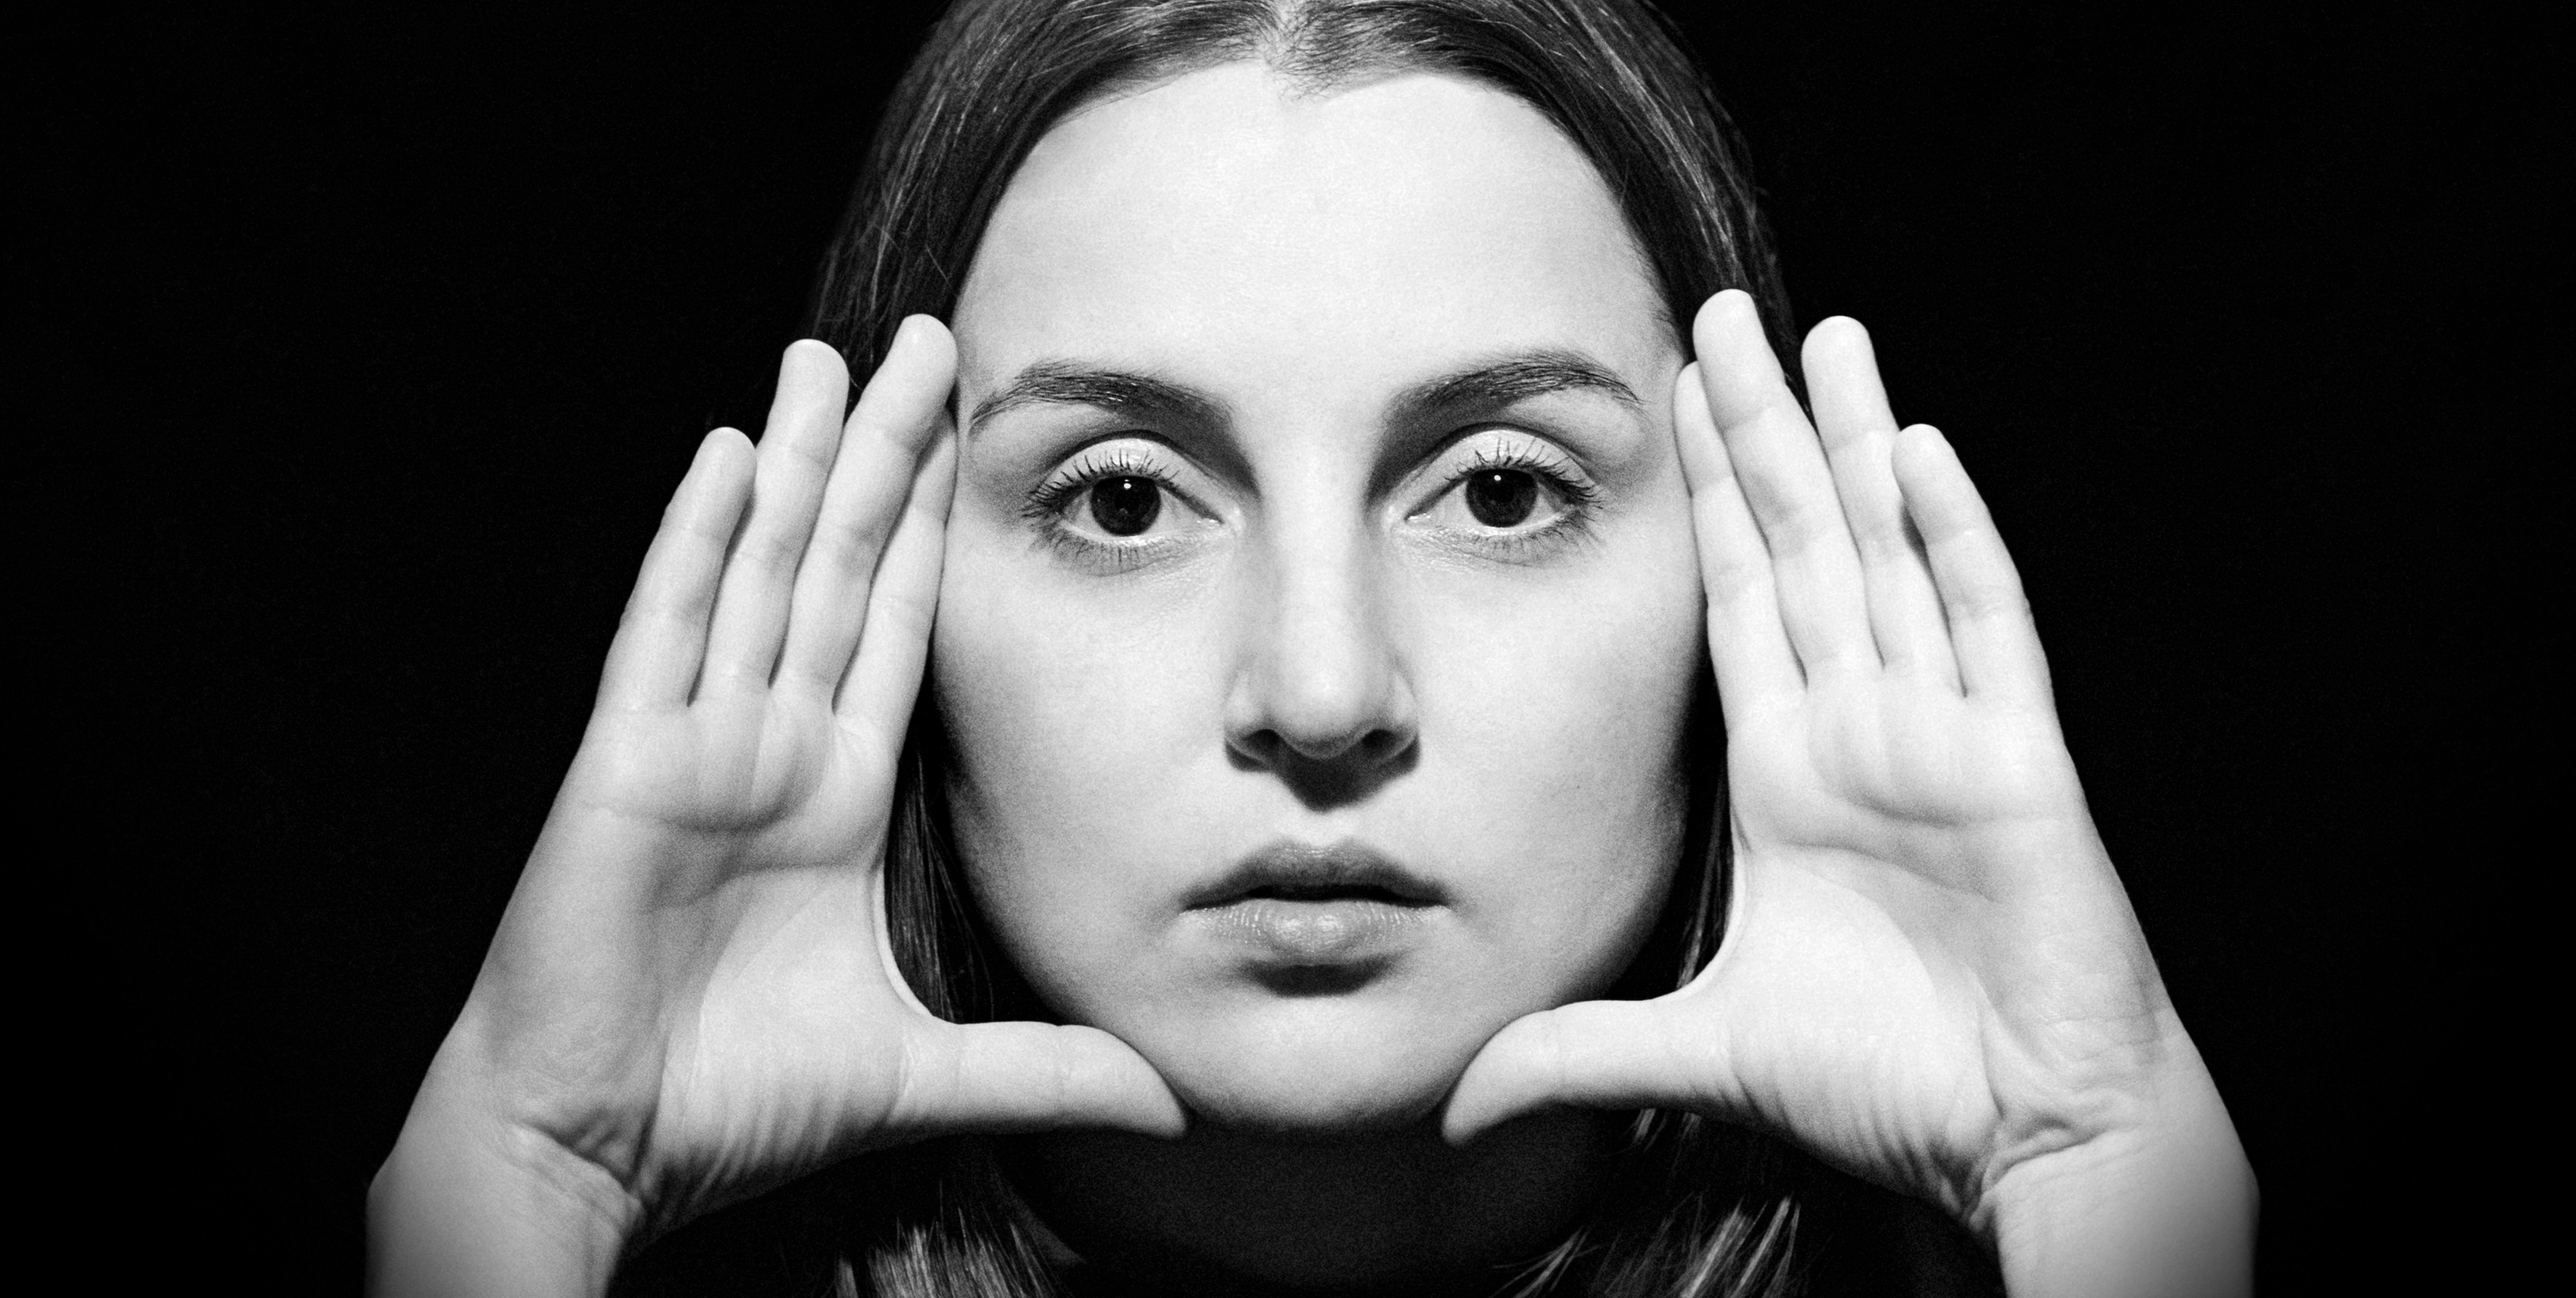
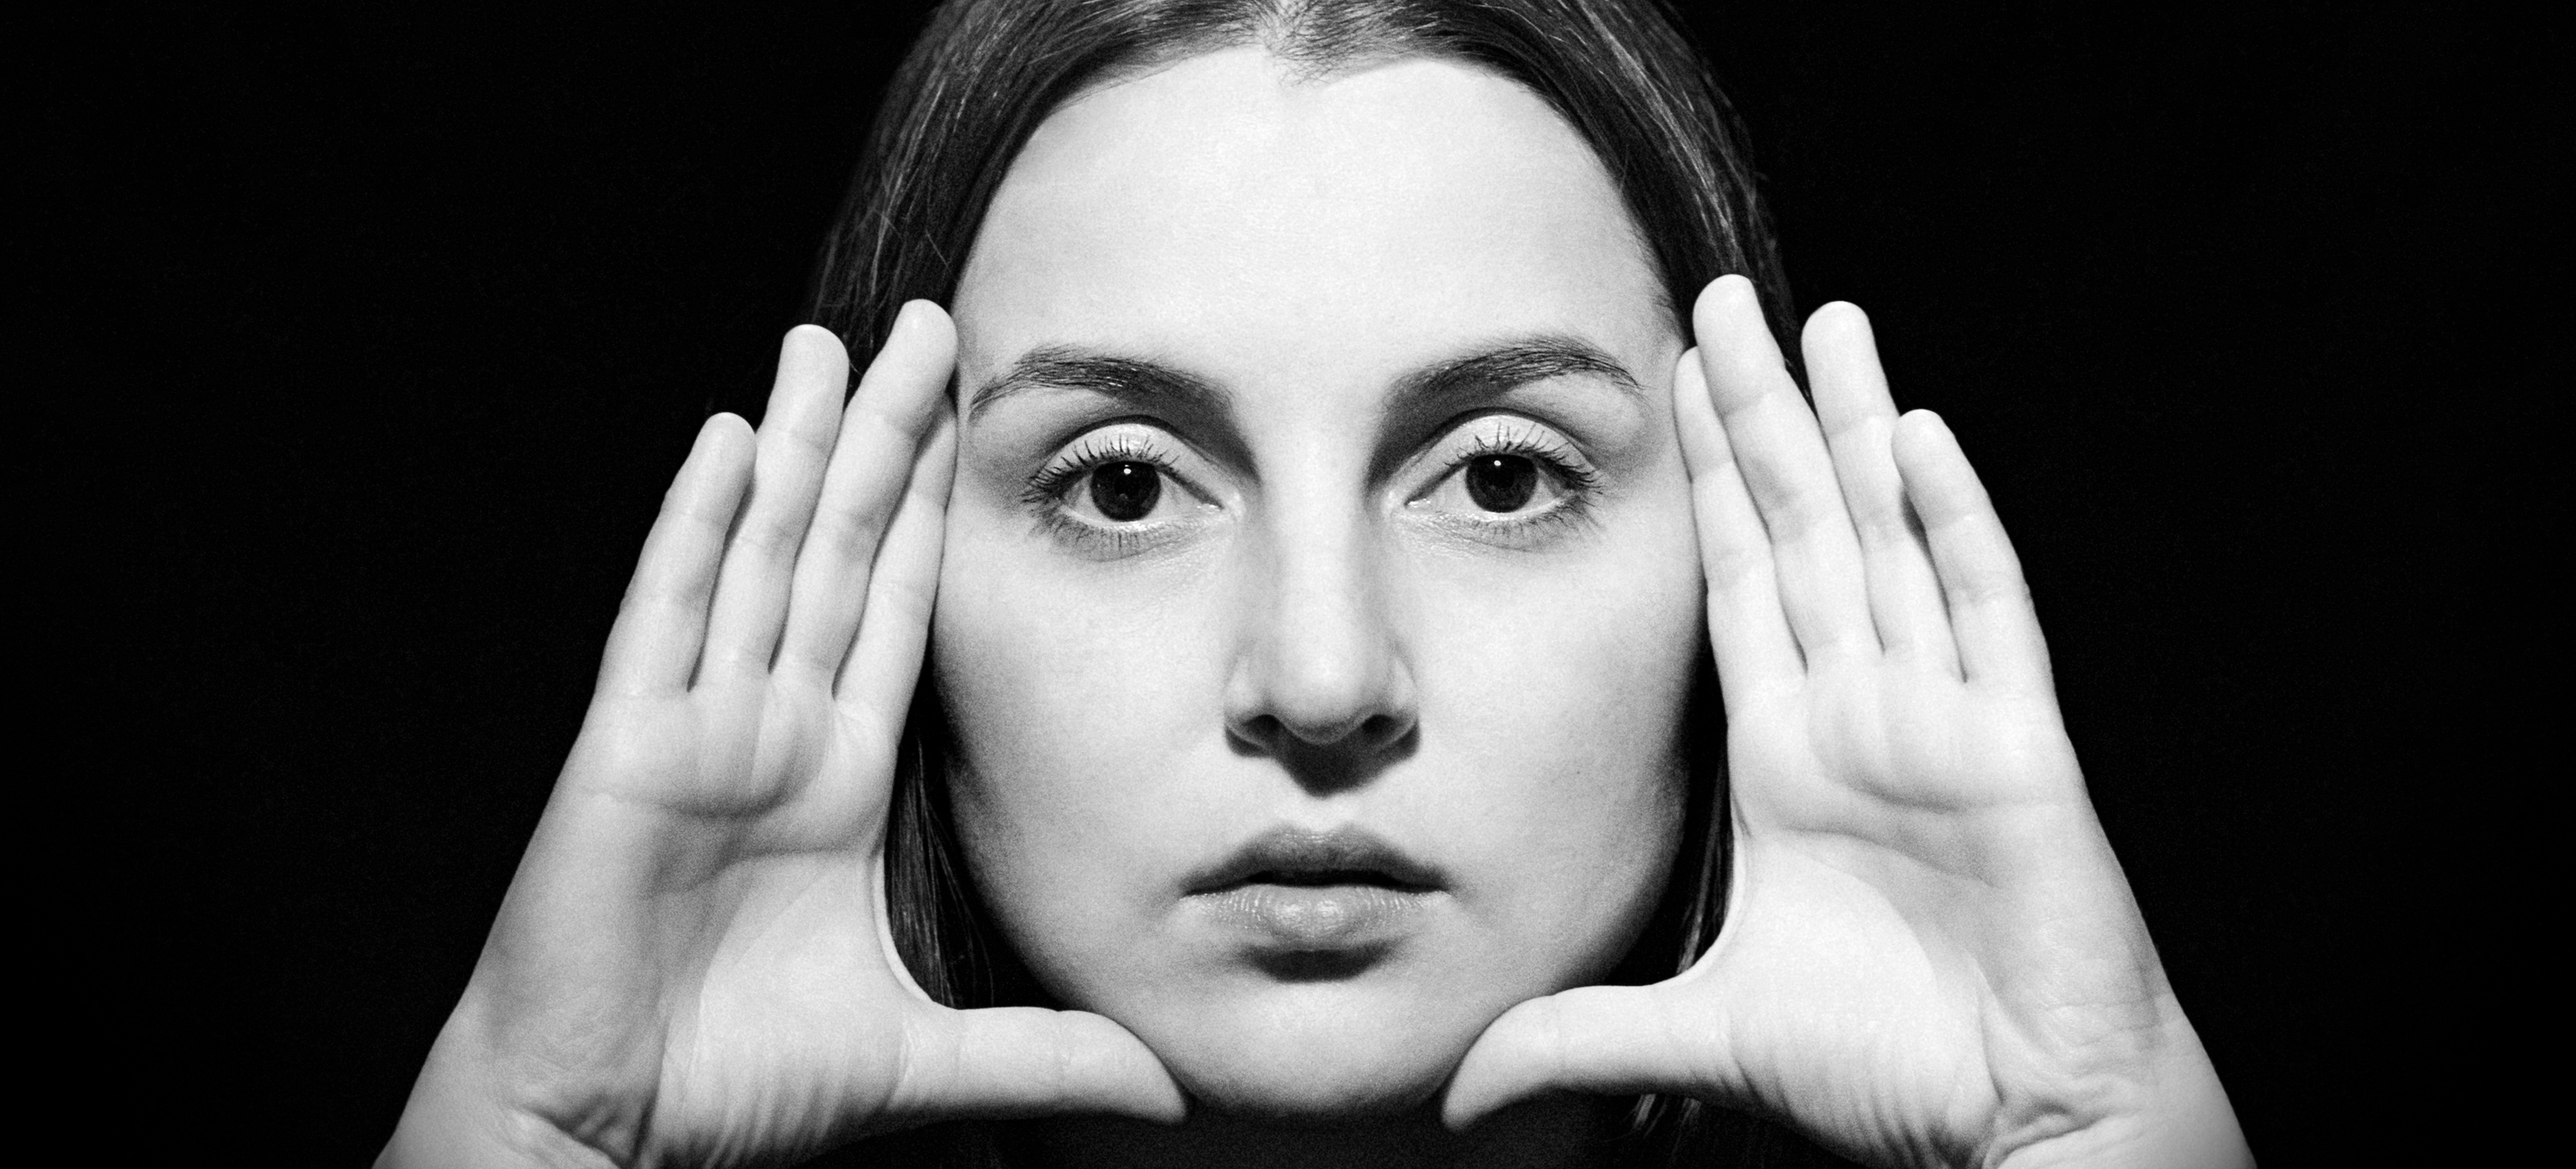
Moved navbar items to the right

Changed region(s): [[0.1246, 0.124, 0.9033, 1.0], [0.3426, 0.0, 0.6541, 0.093], [0.4672, 0.9917, 0.5295, 1.0]]

diff --git a/index.html b/index.html
@@ -28,40 +28,39 @@
     <link rel="stylesheet" href="/css/styles.css" />
   </head>
   <body class="background-image">
-    <div class="container">
-      <nav
-        class="navbar navbar-expand-lg fixed-top navbar-dark bg-dark navbar-color"
-      >
-        <div class="container-fluid">
-          <a class="navbar-brand ms-5" href="/">KSENIA BAIDURAEVA</a>
-          <button
-            class="navbar-toggler"
-            type="button"
-            data-bs-toggle="collapse"
-            data-bs-target="#navbarNavAltMarkup"
-            aria-controls="navbarNavAltMarkup"
-            aria-expanded="false"
-            aria-label="Toggle navigation"
-          >
-            <span class="navbar-toggler-icon"></span>
-          </button>
-          <div class="collapse navbar-collapse" id="navbarNavAltMarkup">
-            <div class="navbar-nav">
-              <a class="nav-link active" aria-current="page" href="/">Home</a>
-              <a class="nav-link" href="/work.html">Work</a>
-              <a class="nav-link" href="/about.html">About</a>
-              <a class="nav-link" href="/gallery.html">Gallery</a>
-              <a class="nav-link" href="/contact.html">Contact</a>
-            </div>
+    <nav
+      class="navbar navbar-expand-lg fixed-top navbar-dark bg-dark navbar-color"
+    >
+      <div class="container-fluid">
+        <a class="navbar-brand ms-5 me-5" href="/">KSENIA BAIDURAEVA</a>
+        <button
+          class="navbar-toggler"
+          type="button"
+          data-bs-toggle="collapse"
+          data-bs-target="#navbarNavAltMarkup"
+          aria-controls="navbarNavAltMarkup"
+          aria-expanded="false"
+          aria-label="Toggle navigation"
+        >
+          <span class="navbar-toggler-icon"></span>
+        </button>
+        <div class="collapse navbar-collapse" id="navbarNavAltMarkup">
+          <div class="navbar-nav flex-wrap ms-md-auto me-5">
+            <a class="nav-link active" aria-current="page" href="/">Home</a>
+            <a class="nav-link" href="/work.html">Work</a>
+            <a class="nav-link" href="/about.html">About</a>
+            <a class="nav-link" href="/gallery.html">Gallery</a>
+            <a class="nav-link" href="/contact.html">Contact</a>
           </div>
         </div>
-      </nav>
-    </div>
-    <div class="hero">
+      </div>
+    </nav>
+
+    <div class="container hero">
       <h3>Welcome to the page of</h3>
       <h1>Ksenia Baiduraeva</h1>
-      <p>Actress based in Saint-Petersburg</p>
-      <div>
+      <p>Actress. Saint-Petersburg</p>
+      <div class="mt-5 ms-4">
         <a
           href="/work.html"
           class="btn bg-white rounded-pill view-work-button"

diff --git a/contact.html b/contact.html
@@ -1,0 +1,63 @@
+<!DOCTYPE html>
+<html lang="en">
+  <head>
+    <meta charset="UTF-8" />
+    <meta name="viewport" content="width=device-width, initial-scale=1.0" />
+    <link
+      href="https://cdn.jsdelivr.net/npm/bootstrap@5.0.0-beta2/dist/css/bootstrap.min.css"
+      rel="stylesheet"
+      integrity="sha384-BmbxuPwQa2lc/FVzBcNJ7UAyJxM6wuqIj61tLrc4wSX0szH/Ev+nYRRuWlolflfl"
+      crossorigin="anonymous"
+    />
+    <script
+      src="https://cdn.jsdelivr.net/npm/bootstrap@5.0.0-beta2/dist/js/bootstrap.bundle.min.js"
+      integrity="sha384-b5kHyXgcpbZJO/tY9Ul7kGkf1S0CWuKcCD38l8YkeH8z8QjE0GmW1gYU5S9FOnJ0"
+      crossorigin="anonymous"
+    ></script>
+    <script
+      src="https://kit.fontawesome.com/14262f361d.js"
+      crossorigin="anonymous"
+    ></script>
+    <link rel="preconnect" href="https://fonts.gstatic.com" />
+    <link
+      href="https://fonts.googleapis.com/css2?family=Montserrat:wght@500&family=Roboto:wght@400;500;700&display=swap"
+      rel="stylesheet"
+    />
+    <link rel="stylesheet" href="/css/styles.css" />
+    <title>Document</title>
+  </head>
+  <body>
+    <div class="container">
+      <nav
+        class="navbar navbar-expand-lg fixed-top navbar-dark bg-dark navbar-color"
+      >
+        <div class="container-fluid">
+          <a class="navbar-brand ms-5 me-5" href="/">KSENIA BAIDURAEVA</a>
+          <button
+            class="navbar-toggler"
+            type="button"
+            data-bs-toggle="collapse"
+            data-bs-target="#navbarNavAltMarkup"
+            aria-controls="navbarNavAltMarkup"
+            aria-expanded="false"
+            aria-label="Toggle navigation"
+          >
+            <span class="navbar-toggler-icon"></span>
+          </button>
+          <div class="collapse navbar-collapse" id="navbarNavAltMarkup">
+            <div class="navbar-nav d-flex justify-content-left">
+              <a class="nav-link" aria-current="page" href="/">Home</a>
+              <a class="nav-link" href="/work.html">Work</a>
+              <a class="nav-link" href="/about.html">About</a>
+              <a class="nav-link" href="/gallery.html">Gallery</a>
+              <a class="nav-link active" href="/contact.html">Contact</a>
+            </div>
+          </div>
+        </div>
+      </nav>
+    </div>
+    <div class="conatiner">
+      <h1 class="page-title">Contact</h1>
+    </div>
+  </body>
+</html>

diff --git a/gallery.html b/gallery.html
@@ -1,0 +1,63 @@
+<!DOCTYPE html>
+<html lang="en">
+  <head>
+    <meta charset="UTF-8" />
+    <meta name="viewport" content="width=device-width, initial-scale=1.0" />
+    <link
+      href="https://cdn.jsdelivr.net/npm/bootstrap@5.0.0-beta2/dist/css/bootstrap.min.css"
+      rel="stylesheet"
+      integrity="sha384-BmbxuPwQa2lc/FVzBcNJ7UAyJxM6wuqIj61tLrc4wSX0szH/Ev+nYRRuWlolflfl"
+      crossorigin="anonymous"
+    />
+    <script
+      src="https://cdn.jsdelivr.net/npm/bootstrap@5.0.0-beta2/dist/js/bootstrap.bundle.min.js"
+      integrity="sha384-b5kHyXgcpbZJO/tY9Ul7kGkf1S0CWuKcCD38l8YkeH8z8QjE0GmW1gYU5S9FOnJ0"
+      crossorigin="anonymous"
+    ></script>
+    <script
+      src="https://kit.fontawesome.com/14262f361d.js"
+      crossorigin="anonymous"
+    ></script>
+    <link rel="preconnect" href="https://fonts.gstatic.com" />
+    <link
+      href="https://fonts.googleapis.com/css2?family=Montserrat:wght@500&family=Roboto:wght@400;500;700&display=swap"
+      rel="stylesheet"
+    />
+    <link rel="stylesheet" href="/css/styles.css" />
+    <title>Document</title>
+  </head>
+  <body>
+    <div class="container">
+      <nav
+        class="navbar navbar-expand-lg fixed-top navbar-dark bg-dark navbar-color"
+      >
+        <div class="container-fluid">
+          <a class="navbar-brand ms-5 me-5" href="/">KSENIA BAIDURAEVA</a>
+          <button
+            class="navbar-toggler"
+            type="button"
+            data-bs-toggle="collapse"
+            data-bs-target="#navbarNavAltMarkup"
+            aria-controls="navbarNavAltMarkup"
+            aria-expanded="false"
+            aria-label="Toggle navigation"
+          >
+            <span class="navbar-toggler-icon"></span>
+          </button>
+          <div class="collapse navbar-collapse" id="navbarNavAltMarkup">
+            <div class="navbar-nav d-flex justify-content-left">
+              <a class="nav-link" aria-current="page" href="/">Home</a>
+              <a class="nav-link" href="/work.html">Work</a>
+              <a class="nav-link" href="/about.html">About</a>
+              <a class="nav-link active" href="/gallery.html">Gallery</a>
+              <a class="nav-link" href="/contact.html">Contact</a>
+            </div>
+          </div>
+        </div>
+      </nav>
+    </div>
+    <div class="conatiner">
+      <h1 class="page-title">Gallery</h1>
+    </div>
+  </body>
+</html>

diff --git a/work.html b/work.html
@@ -26,5 +26,38 @@
     <link rel="stylesheet" href="/css/styles.css" />
     <title>Document</title>
   </head>
-  <body></body>
+  <body>
+    <div class="container">
+      <nav
+        class="navbar navbar-expand-lg fixed-top navbar-dark bg-dark navbar-color"
+      >
+        <div class="container-fluid">
+          <a class="navbar-brand ms-5 me-5" href="/">KSENIA BAIDURAEVA</a>
+          <button
+            class="navbar-toggler"
+            type="button"
+            data-bs-toggle="collapse"
+            data-bs-target="#navbarNavAltMarkup"
+            aria-controls="navbarNavAltMarkup"
+            aria-expanded="false"
+            aria-label="Toggle navigation"
+          >
+            <span class="navbar-toggler-icon"></span>
+          </button>
+          <div class="collapse navbar-collapse" id="navbarNavAltMarkup">
+            <div class="navbar-nav d-flex justify-content-left">
+              <a class="nav-link" aria-current="page" href="/">Home</a>
+              <a class="nav-link active" href="/work.html">Work</a>
+              <a class="nav-link" href="/about.html">About</a>
+              <a class="nav-link" href="/gallery.html">Gallery</a>
+              <a class="nav-link" href="/contact.html">Contact</a>
+            </div>
+          </div>
+        </div>
+      </nav>
+    </div>
+    <div class="conatiner">
+      <h1 class="page-title">Work</h1>
+    </div>
+  </body>
 </html>

diff --git a/css/styles.css b/css/styles.css
@@ -3,21 +3,24 @@
     --secondary-font: font-family: "Montserrat", sans-serif;
 }
 
+html {
+  min-height: 100%;
+}
+
 body {
   color: white;
   font-family: var(--primary-font);
   text-align: center;
+  background: black;
 } 
 
 .background-image {
-  background-image: url(/images/hero4.jpg);
+  background-image: url(/images/hero4.jpeg);
   background-repeat: no-repeat;
   background-size: cover;
 }
 
-.navbar-nav {
-  margin-left: 800px;
-}
+
 
 .navbar-color {
   background-color: #202020;
@@ -74,7 +77,11 @@ line-height: 30px;
 }
 
 footer {
-background-color:  #202020;;
+background-color:  #202020;
+position:absolute;
+bottom:0;
+width:100%;
+height: 60px;
 }
 
 footer .social-links a {
@@ -82,4 +89,10 @@ footer .social-links a {
     color: white;
     padding: 10px 14px;
     font-size: 18px;
+    position: relative;
+    bottom: 30px;
   }
+
+.page-title {
+    margin-top: 100px;
+}
